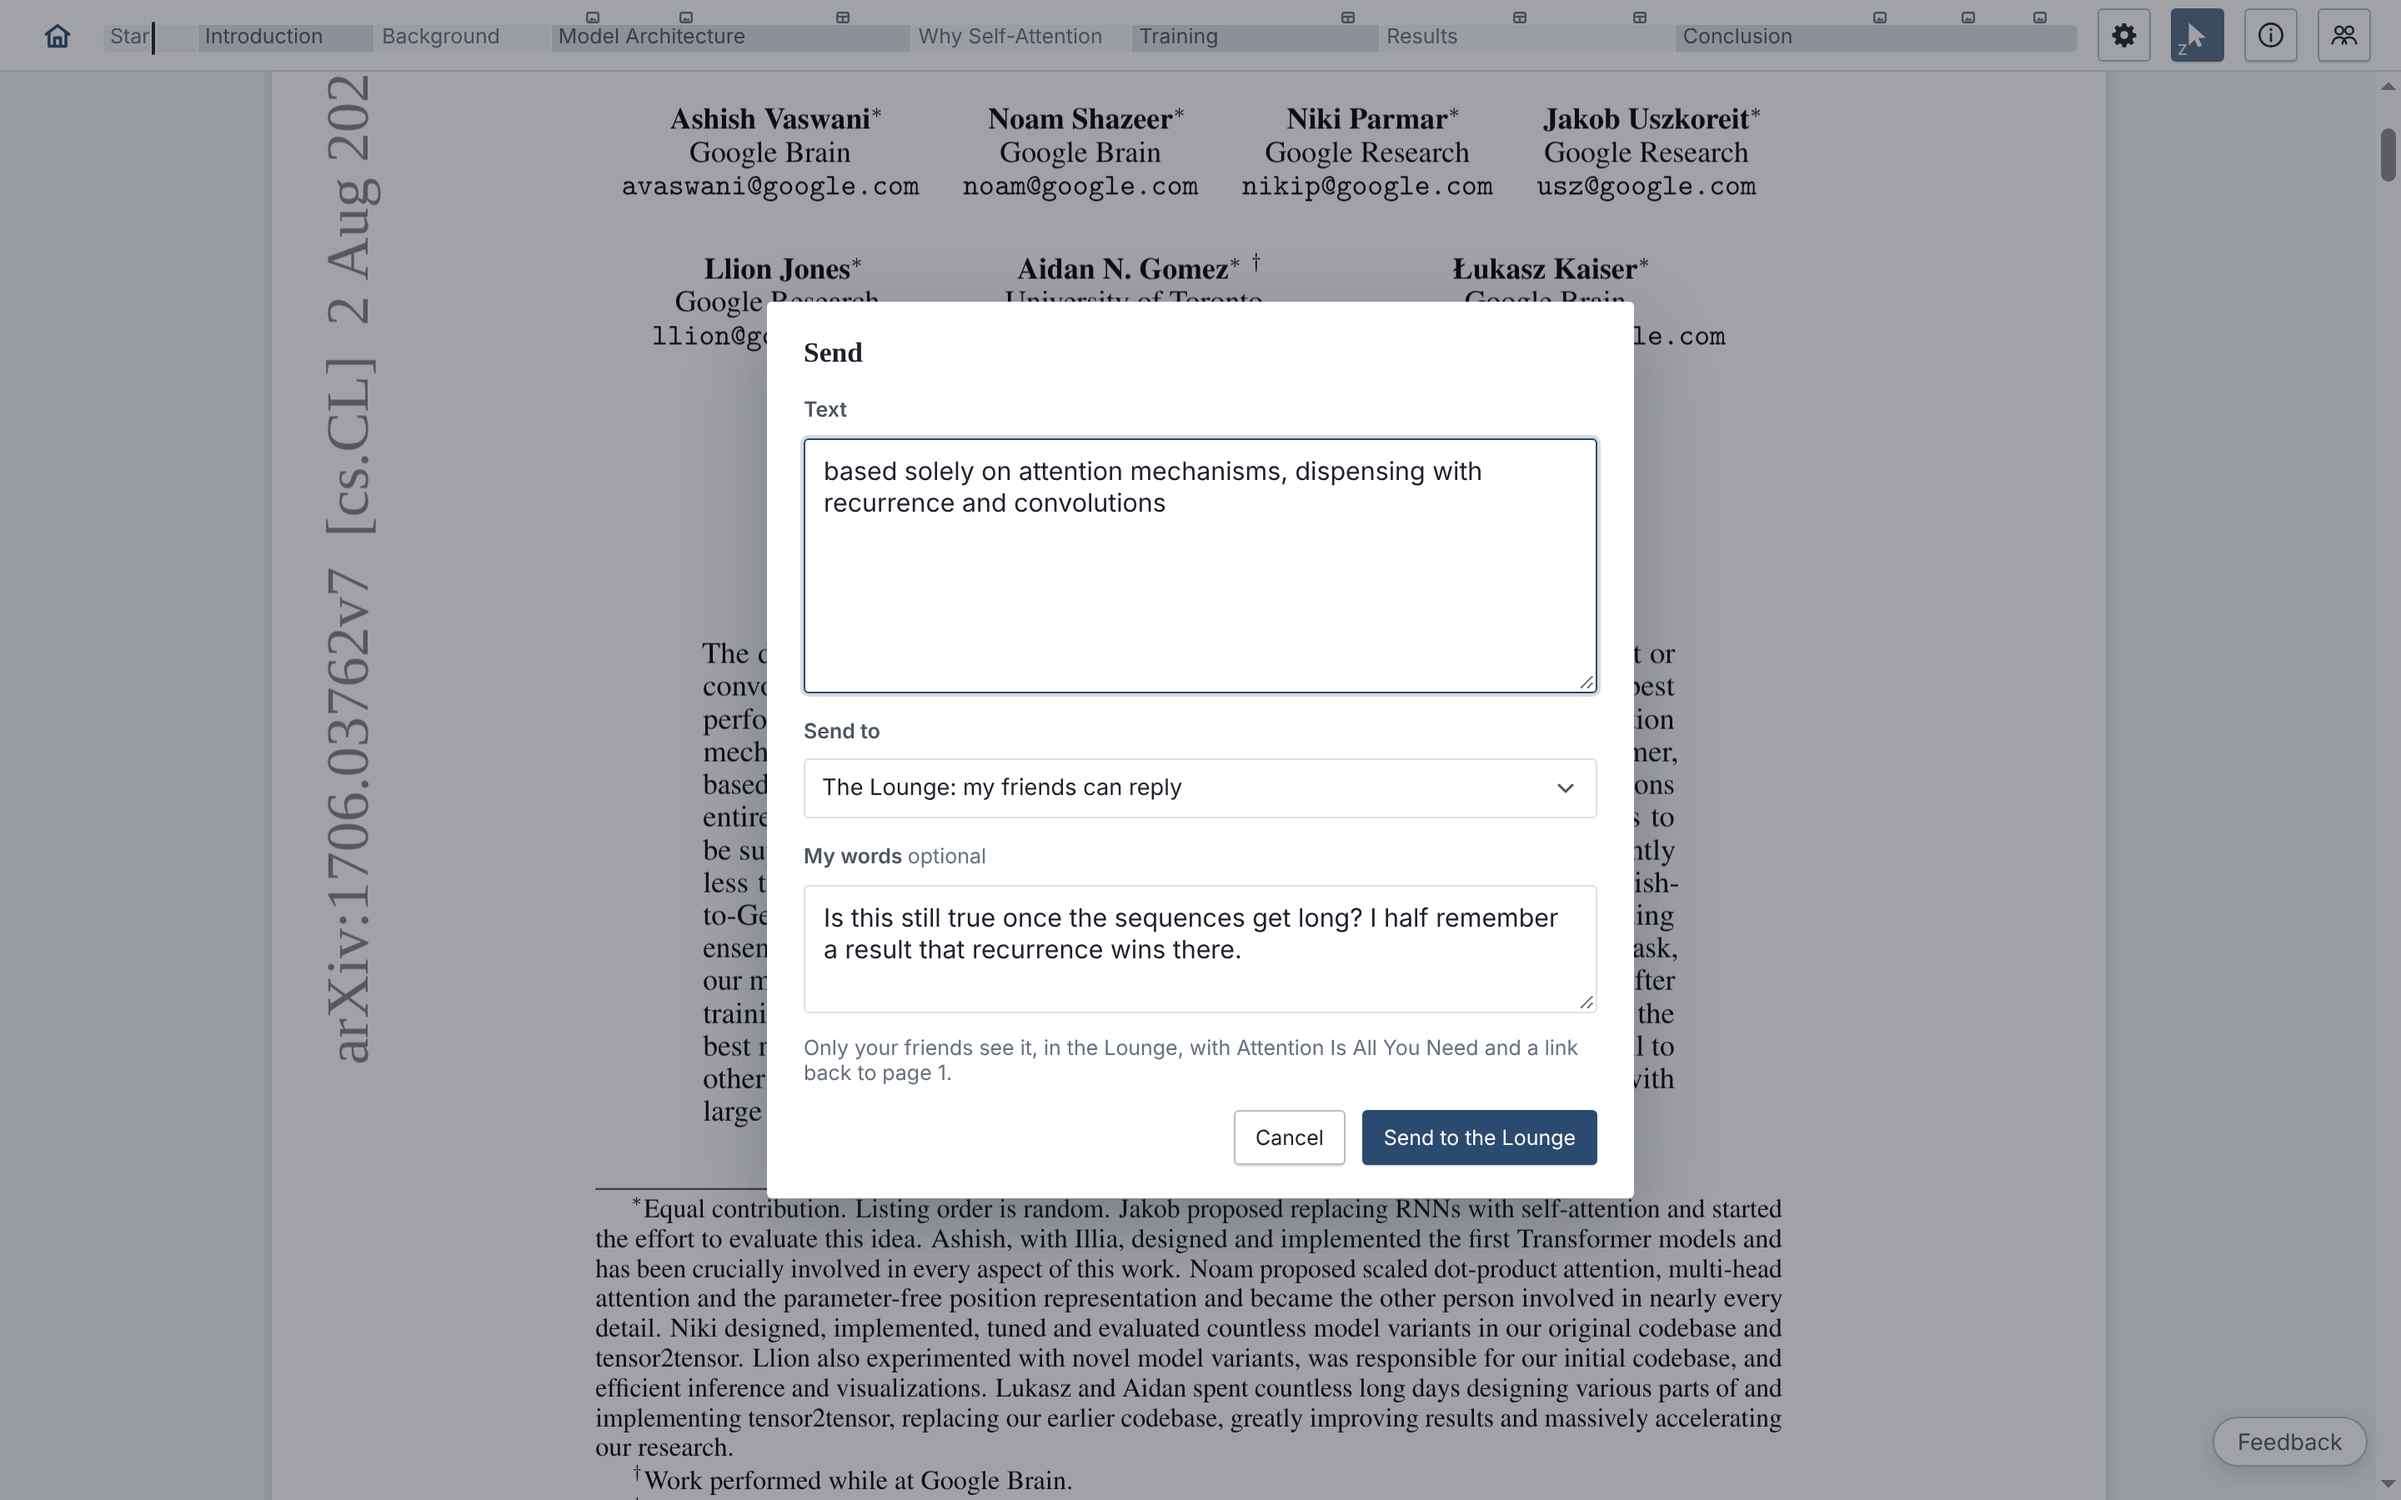
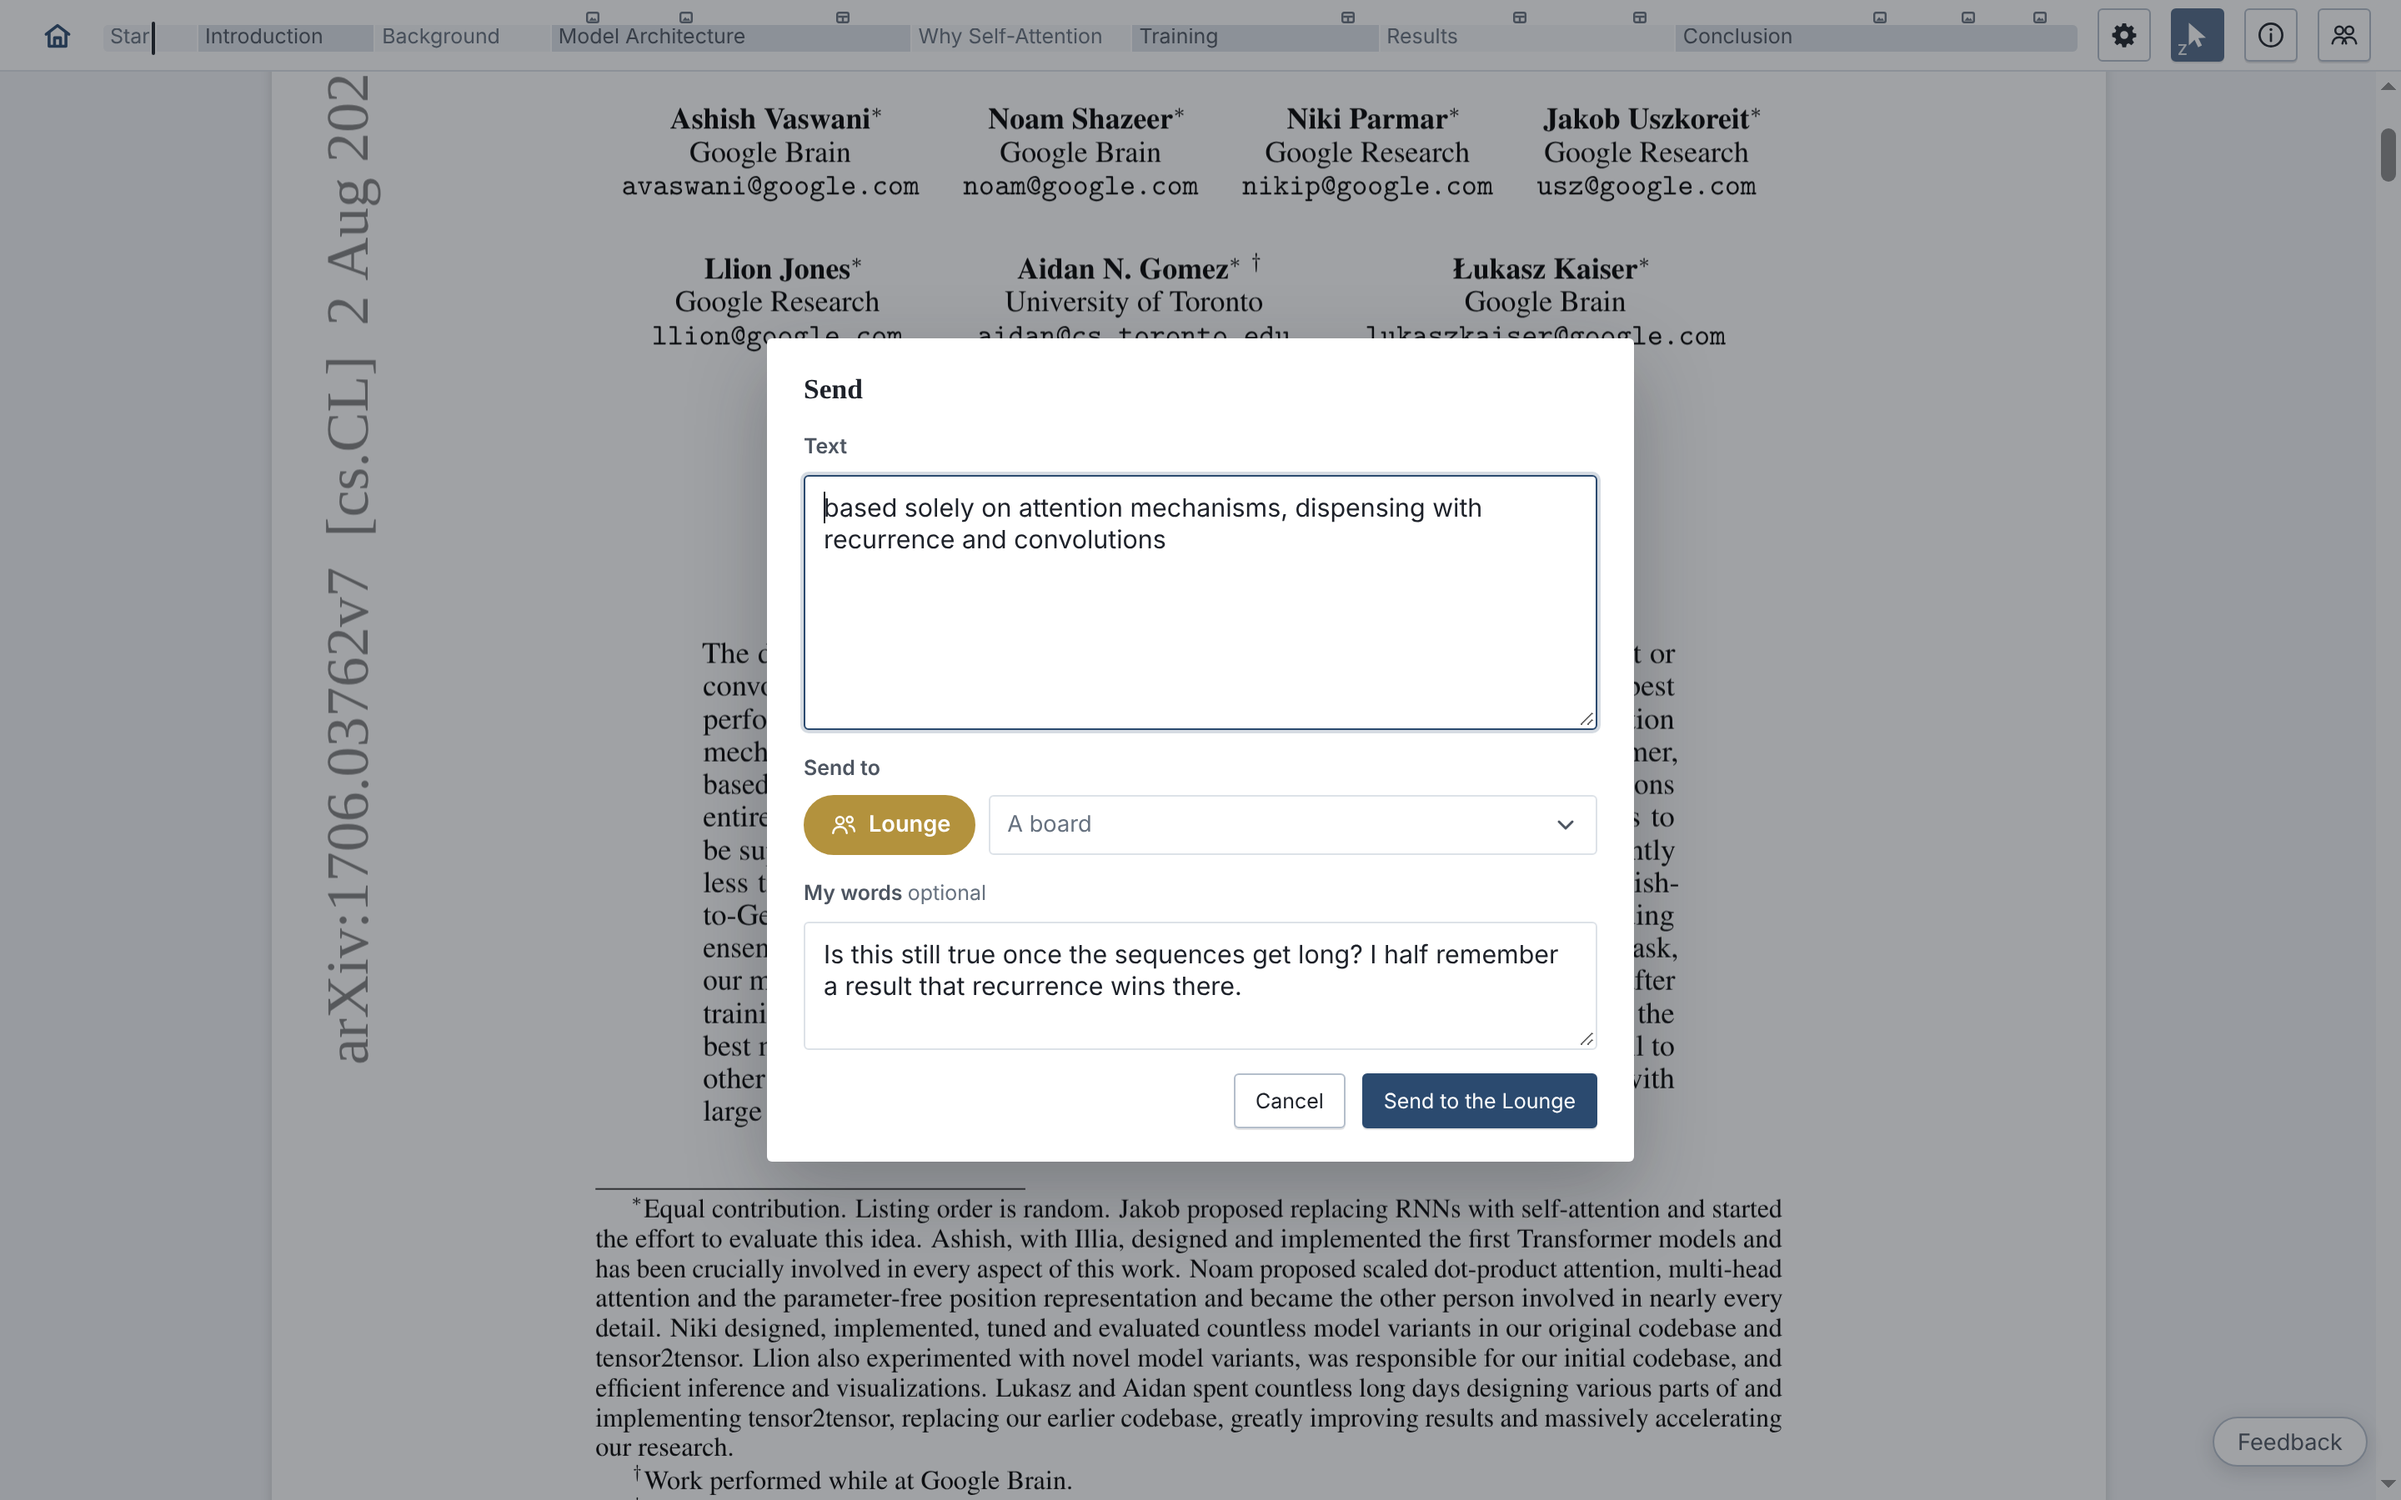
The send sheet: Lounge on a button of its own, and no notes
Send to is a gold Lounge button beside the list of boards; whichever is
picked is lit. The line saying who sees a thread is gone, and so is the
sentence on the sheet once it is sent.

Claude-Session: https://claude.ai/code/session_01PQZzMW8x3HqxwqPCdqeFh5

Changed region(s): [[0.3125, 0.4356, 0.6875, 0.8089], [0.3125, 0.1867, 0.6875, 0.3733]]

diff --git a/viewer/src/App.jsx b/viewer/src/App.jsx
@@ -5620,7 +5620,6 @@ export default function App() {
               <h3>{sendComplete === LOUNGE ? 'Sent to the Lounge' : sendComplete ? 'Sent to staging' : source?.threads ? 'Send' : 'Send to a board'}</h3>
               {sendComplete === LOUNGE ? (
                 <>
-                  <p>Your friends will find it in the Lounge, and can reply to it there.</p>
                   <div className="feedback-actions">
                     {!IS_DESKTOP && <a className="send-selection-lounge" href={appPath('/lounge')}>Open the Lounge</a>}
                     <button type="button" className="primary" onClick={closeSendSelection}>Done</button>
@@ -5646,34 +5645,50 @@ export default function App() {
                     />
                   </label>}
                   {/* Where it goes: the Lounge, for friends to reply to,
-                      or one of the reader's own boards. */}
-                  <label className="send-selection-field">
-                    <span>{source?.threads ? 'Send to' : 'Board'}</span>
-                    <select
-                      value={sendTo}
-                      onChange={(event) => setSendTo(event.target.value)}
-                      disabled={!sendBoards.length && !source?.threads}
-                    >
-                      {source?.threads ? (
-                        <>
-                          <option value={LOUNGE}>The Lounge: my friends can reply</option>
-                          <optgroup label="My boards">
-                            {!sendBoards.length && <option value="" disabled>No boards yet</option>}
-                            {sendBoards.map((candidate) => (
-                              <option key={candidate.uuid} value={candidate.uuid}>{candidate.name}</option>
-                            ))}
-                          </optgroup>
-                        </>
-                      ) : (
-                        <>
-                          {!sendBoards.length && <option value="">No boards available</option>}
+                      on a button of its own, or one of the reader's own
+                      boards, in the list beside it. */}
+                  {source?.threads ? (
+                    <div className="send-selection-field" role="group" aria-label="Send to">
+                      <span>Send to</span>
+                      <div className="send-to">
+                        <button
+                          type="button"
+                          className={`send-to-lounge${sendTo === LOUNGE ? ' is-on' : ''}`}
+                          aria-pressed={sendTo === LOUNGE}
+                          onClick={() => setSendTo(LOUNGE)}
+                        >
+                          <svg viewBox="0 0 24 24" aria-hidden="true"><g transform="translate(0 -0.5)"><circle cx="9" cy="9" r="3" /><path d="M3.5 19c.4-3.2 2.6-5 5.5-5s5.1 1.8 5.5 5" /><circle cx="16.8" cy="8.2" r="2.4" /><path d="M16.6 13.2c2.2.2 3.7 1.7 4 4.3" /></g></svg>
+                          Lounge
+                        </button>
+                        <select
+                          aria-label="Board"
+                          className={sendTo === LOUNGE ? 'is-unpicked' : ''}
+                          value={sendTo === LOUNGE ? '' : sendTo}
+                          onChange={(event) => setSendTo(event.target.value)}
+                          disabled={!sendBoards.length}
+                        >
+                          {(sendTo === LOUNGE || !sendBoards.length) && <option value="" disabled>{sendBoards.length ? 'A board' : 'No boards yet'}</option>}
                           {sendBoards.map((candidate) => (
                             <option key={candidate.uuid} value={candidate.uuid}>{candidate.name}</option>
                           ))}
-                        </>
-                      )}
-                    </select>
-                  </label>
+                        </select>
+                      </div>
+                    </div>
+                  ) : (
+                    <label className="send-selection-field">
+                      <span>Board</span>
+                      <select
+                        value={sendTo}
+                        onChange={(event) => setSendTo(event.target.value)}
+                        disabled={!sendBoards.length}
+                      >
+                        {!sendBoards.length && <option value="">No boards available</option>}
+                        {sendBoards.map((candidate) => (
+                          <option key={candidate.uuid} value={candidate.uuid}>{candidate.name}</option>
+                        ))}
+                      </select>
+                    </label>
+                  )}
                   <label className="send-selection-field">
                     <span>{sendTo === LOUNGE ? 'My words' : 'Comment'} <small>optional</small></span>
                     <textarea
@@ -5681,16 +5696,14 @@ export default function App() {
                       maxLength={sendTo === LOUNGE ? appLimits.text.thread_words : appLimits.text.board_content}
                       value={sendSelection.comment}
                       onChange={(event) => setSendSelection({ ...sendSelection, comment: event.target.value })}
-                      placeholder={sendTo === LOUNGE ? 'What do you make of it? Anything goes.' : 'Why are you saving this?'}
+                      placeholder={sendTo === LOUNGE ? 'What do you make of it?' : 'Why are you saving this?'}
                     />
                   </label>
-                  <p className="send-selection-source">
-                    {sendTo === LOUNGE
-                      ? <>Only your friends see it, in the Lounge, with <PaperTitle title={paper?.title || 'the paper'} /> and a link back to page {sendSelection.page}.</>
-                      : sendSelection.kind === 'clip'
-                        ? `Source: Page ${sendSelection.page}`
-                        : <>Source: <PaperTitle title={paper?.title || 'Paper'} />, page {sendSelection.page}. A backlink is included.</>}
-                  </p>
+                  {sendTo !== LOUNGE && <p className="send-selection-source">
+                    {sendSelection.kind === 'clip'
+                      ? `Source: Page ${sendSelection.page}`
+                      : <>Source: <PaperTitle title={paper?.title || 'Paper'} />, page {sendSelection.page}. A backlink is included.</>}
+                  </p>}
                   {sendError && <p className="feedback-error">{sendError}</p>}
                   <div className="feedback-actions">
                     <button type="button" onClick={closeSendSelection} disabled={sendBusy}>Cancel</button>

diff --git a/viewer/src/styles.js b/viewer/src/styles.js
@@ -1911,6 +1911,28 @@ body:has(.pages.with-margin) .feedback-button { right: auto; left: 20px; }
   color: var(--ink-faint);
   font: var(--fs-xs) var(--font-ui);
 }
+/* Where a send goes: the Lounge on a button of its own, in the Lounge's
+   gold, beside the list of the reader's boards. Whichever is chosen is the
+   one that is lit. */
+.send-to { display: flex; align-items: stretch; gap: 8px; }
+.send-to select { flex: 1; min-width: 0; }
+.send-to select.is-unpicked { color: var(--ink-faint); }
+.send-to-lounge {
+  flex: none;
+  display: inline-flex;
+  align-items: center;
+  gap: 6px;
+  padding: 0 14px;
+  border: 1px solid var(--gold-line);
+  border-radius: 999px;
+  background: var(--gold-soft);
+  box-shadow: none;
+  color: var(--gold-ink);
+  font: 600 var(--fs-sm) var(--font-ui);
+}
+.send-to-lounge svg { width: 18px; height: 18px; fill: none; stroke: currentColor; stroke-width: 1.6; stroke-linecap: round; stroke-linejoin: round; }
+.send-to-lounge:hover:not(:disabled) { border-color: var(--gold); background: var(--gold-soft); color: var(--gold-ink); }
+.send-to-lounge.is-on, .send-to-lounge.is-on:hover:not(:disabled) { border-color: var(--gold); background: var(--gold); color: var(--ink-inverse); }
 /* After a send to the Lounge: the way there, beside Done. */
 .send-selection-lounge { align-self: center; margin-right: auto; color: var(--accent); font: 500 var(--fs-sm) var(--font-ui); text-decoration: none; }
 .send-selection-lounge:hover, .send-selection-lounge:focus-visible { text-decoration: underline; }

diff --git a/USER_STORIES.md b/USER_STORIES.md
@@ -239,7 +239,7 @@ A friend is someone I chose, who chose me back. Friendship is the third audience
 
 **Threads**
 
-- **US-10.18** **I can send what I select in a paper to the Lounge.** Words I selected, a passage I painted or a clip I cut are sent from the same Send button that sends them to a board: its sheet's *Send to* lists **The Lounge** above my boards, and takes words of my own if I have any (*My words*, optional). What I send starts a **thread**: the passage or the picture, the paper's title, a link that opens the paper at that place with the passage lit, and my words. Free talk about a place in a paper: it has no phase, no votes and no counts of approval.
+- **US-10.18** **I can send what I select in a paper to the Lounge.** Words I selected, a passage I painted or a clip I cut are sent from the same Send button that sends them to a board: its sheet's *Send to* has a **Lounge** button, in the Lounge's gold, beside the list of my boards; whichever I pick is lit, and the sheet takes words of my own if I have any (*My words*, optional). Once sent, the sheet says so and offers the way to the Lounge, and nothing more. What I send starts a **thread**: the passage or the picture, the paper's title, a link that opens the paper at that place with the passage lit, and my words. Free talk about a place in a paper: it has no phase, no votes and no counts of approval.
 - **US-10.19** **A thread is one row in the Lounge**, marked *Thread*: the sender's words (or the passage, when they wrote none), the paper and page, how many replies, and the faces of everyone who spoke in it. Pressing it opens it under the row: the passage as a quotation with the way back to its place, everything said in order, and a box to **reply**. My own threads are in my Lounge too, so I read the replies. A thread started, or a reply by someone else, wears the gold dot until I have opened the Lounge. *Threads* in the rail's Show narrows the room to them.
 - **US-10.20** **A thread is seen by its sender's friends and nobody else**, and whoever sees it can reply; every reply is seen by all of them, friends of mine or not. It lives in the Lounge alone: nothing is drawn on the paper, on my copy or on anyone's. Its sender removes it, replies and all; a reply is taken back by whoever wrote it. A thread stays in the room for a month after the last thing said in it.
 
